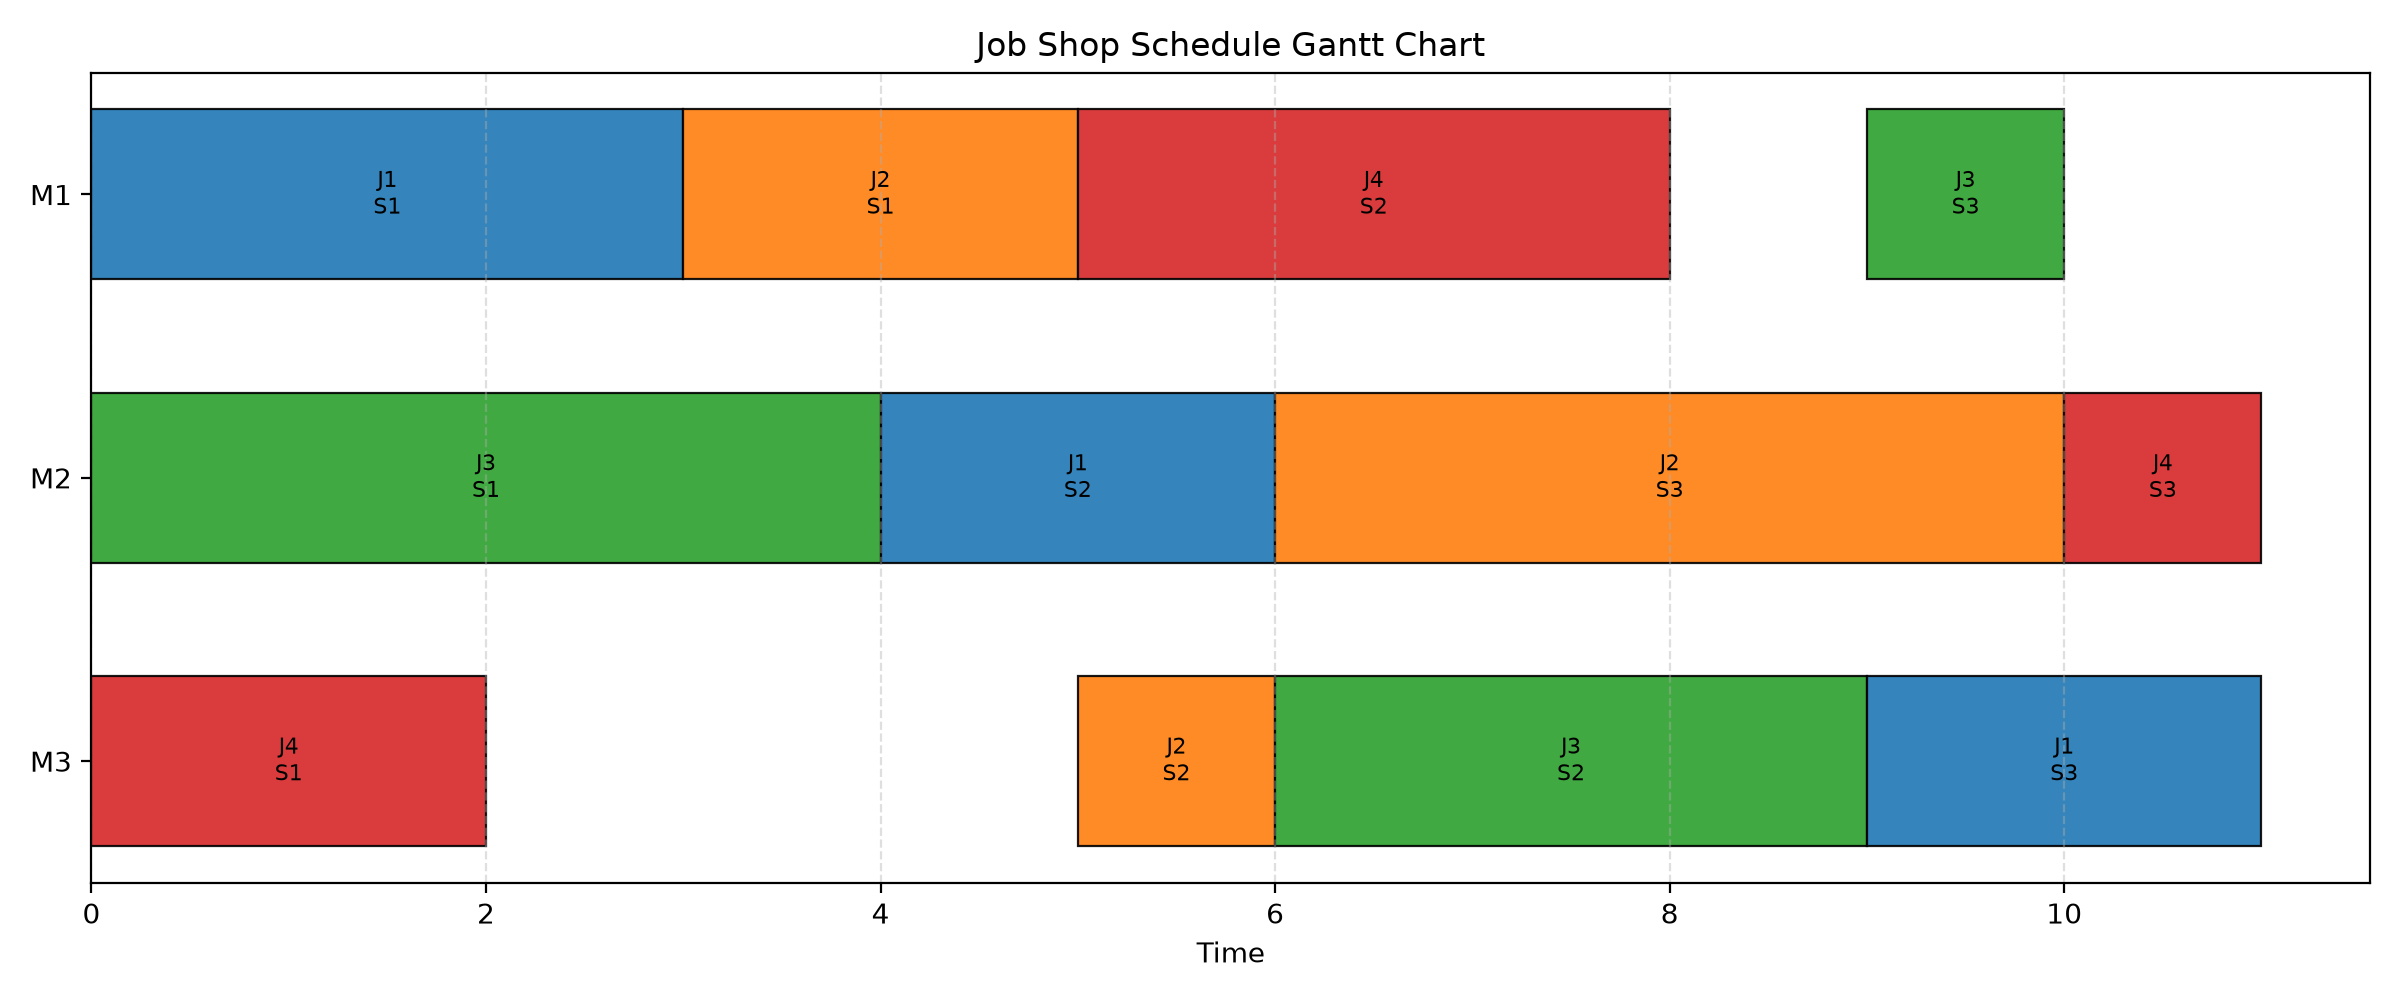
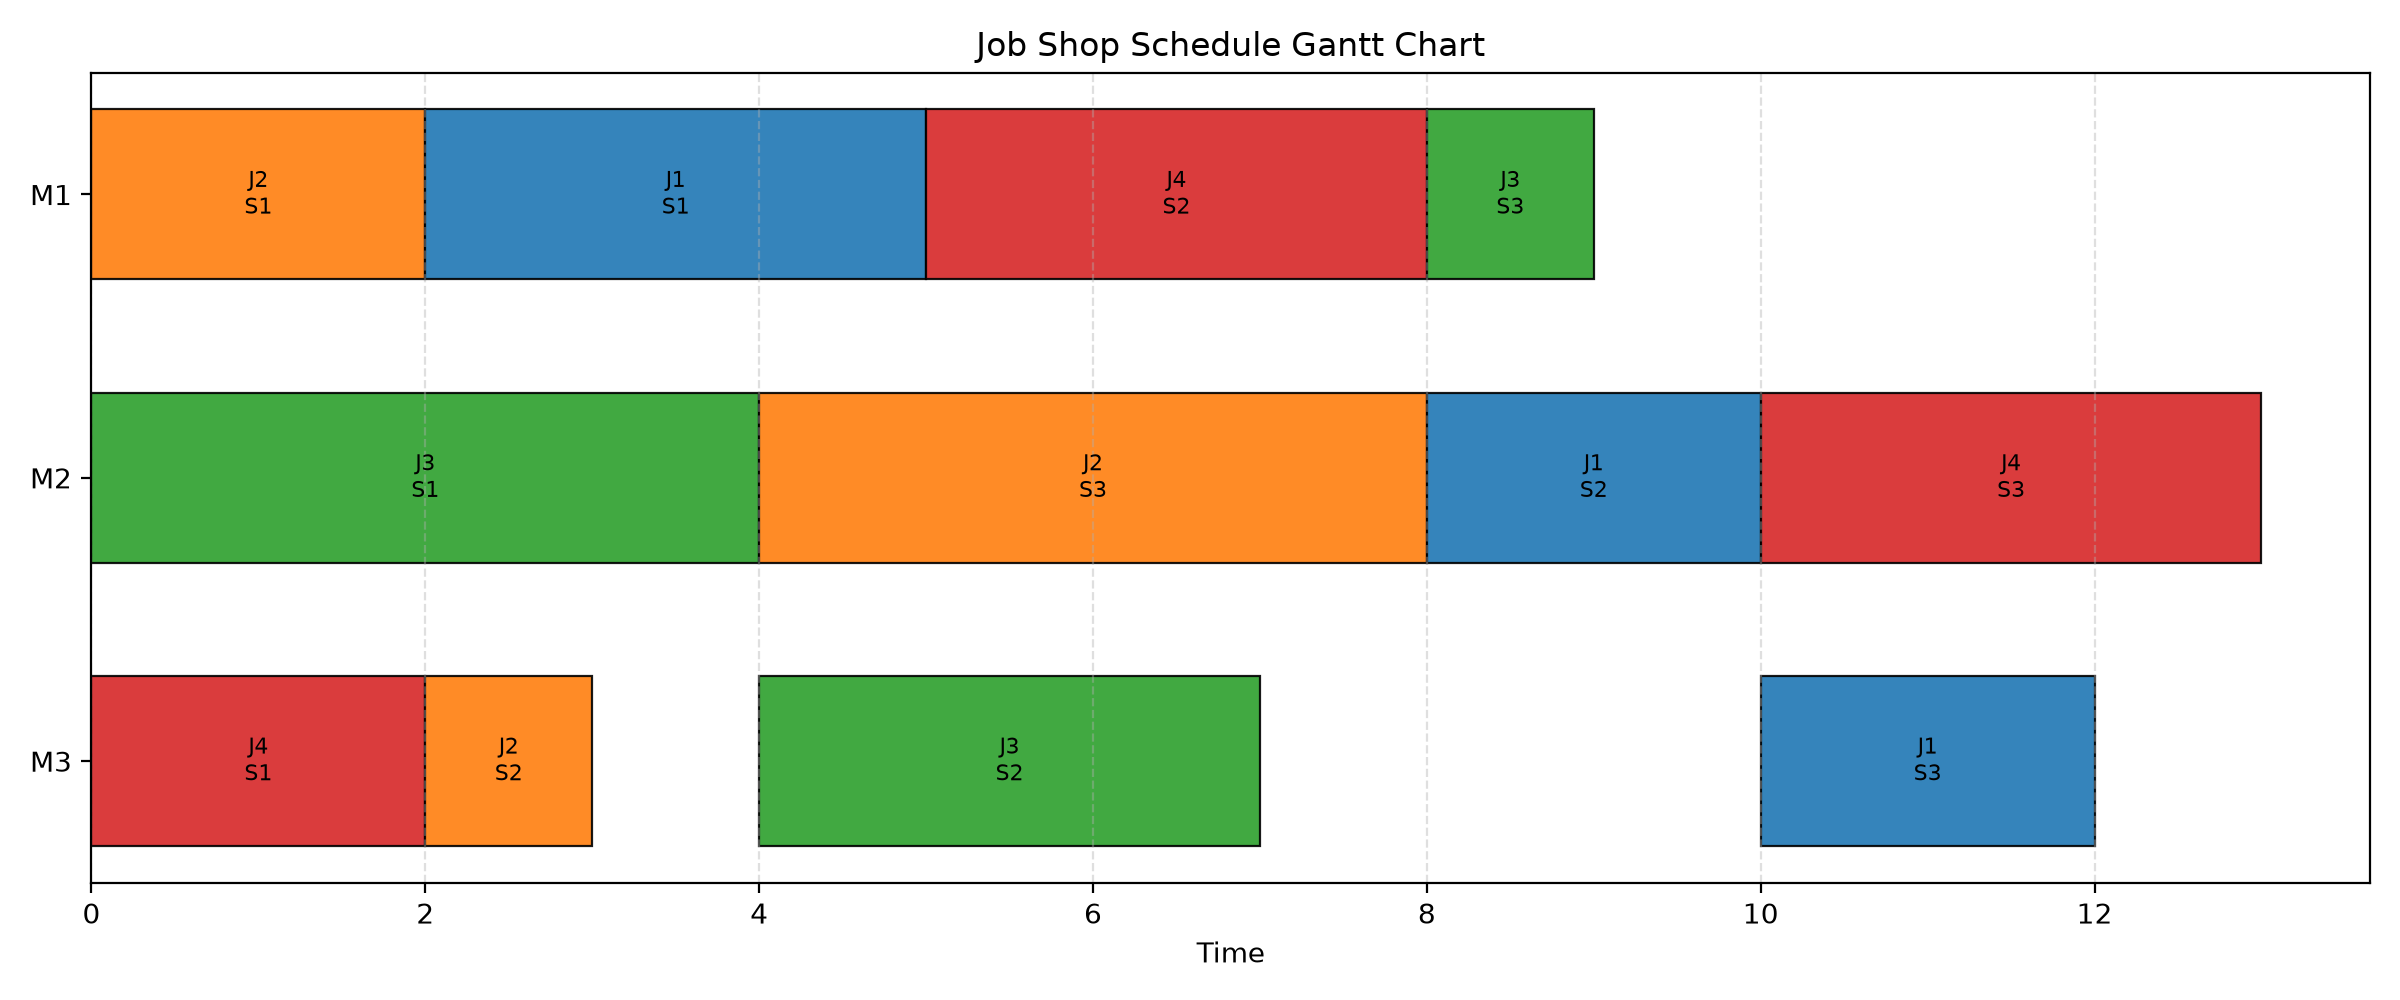
自動排程結果與 AI 摘要

diff --git a/ai_summary.md b/ai_summary.md
@@ -2,19 +2,19 @@
 
 ## 程式計算的事實
 
-- 總完工時間 Makespan：11
-- 理論下限（最忙機台總加工時間與最長訂單總加工時間取大者）：11
+- 總完工時間 Makespan：13
+- 理論下限（最忙機台總加工時間與最長訂單總加工時間取大者）：13
 - 是否已達最佳：是，Makespan 等於理論下限，無法再縮短
-- 瓶頸機台：M2（總加工時間 11）
-- 各訂單完工時間：J1=11、J2=10、J3=10、J4=11
-- M1：忙碌 9、使用率 82%、空檔 8–9、10–11
-- M2：忙碌 11、使用率 100%、空檔 無
-- M3：忙碌 8、使用率 73%、空檔 2–5
+- 瓶頸機台：M2（總加工時間 13）
+- 各訂單完工時間：J1=12、J2=8、J3=9、J4=13
+- M1：忙碌 9、使用率 69%、空檔 9–13
+- M2：忙碌 13、使用率 100%、空檔 無
+- M3：忙碌 8、使用率 62%、空檔 3–4、7–10、12–13
 
 ## AI 說明（gemini-3.5-flash-lite）
 
-生管人員請注意，本次排程結果摘要如下：
+生管人員您好，本次排程結果摘要如下：
 
-總完工時間（Makespan）為 11，已達最佳狀態（等於理論下限，無法再縮短）。主要瓶頸機台為 M2，總加工時間 11，使用率高達 100% 且無空檔。各訂單完工時間分別為：J1 完工時間 11、J2 完工時間 10、J3 完工時間 10、J4 完工時間 11。
+總完工時間（Makespan）為 13，已達最佳狀態（等於理論下限，無法再縮短）。主要瓶頸機台為 M2，總加工時間 13，使用率 100%。各訂單完工時間分別為：J1 為 12、J2 為 8、J3 為 9、J4 為 13。
 
-改善建議：因 Makespan 已達最佳，建議從瓶頸機台 M2 的產能著手，例如增加班次、外包或增加同類機台，或利用 M1 與 M3 的空檔（M1 於 8–9、10–11；M3 於 2–5）來安排其他工作。
+改善建議：因 Makespan 已達理論下限，無法透過調整工序順序縮短。建議從瓶頸機台 M2 的產能著手，例如增加班次、外包或增加同類機台；同時可利用 M1（9–13）與 M3（3–4、7–10、12–13）的空檔時間，靈活安排其他工作。
